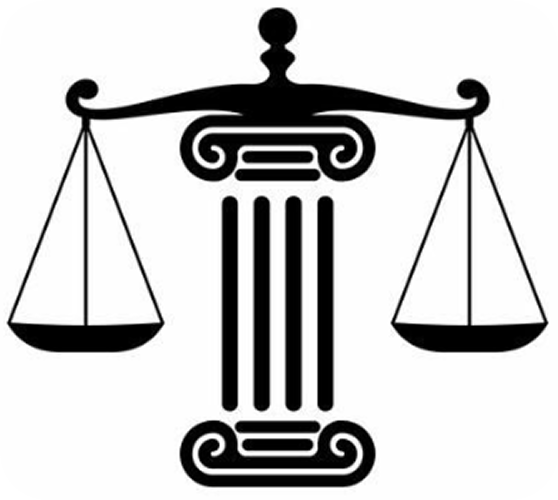
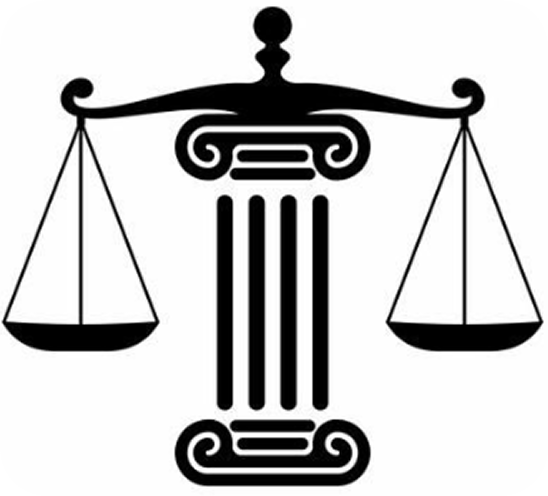
feat: sobre nosotros  + change photo header

diff --git a/src/mock/esp.tsx b/src/mock/esp.tsx
@@ -1,0 +1,48 @@
+"use client"
+import { FiFlag } from "react-icons/fi";
+import { IoBagHandleOutline } from "react-icons/io5";
+
+export const raiz = "/oroz";
+
+export const esp = {
+  logo_descripcion: "Derecho De Seguridad Social",
+  inicio_info: [
+    "Comprometidos con nuestros clientes y pasion por nuestro trabajo",
+    `Somos un Equipo de Profesionales que se ocupan de su futura
+            Jubilacion`,
+    "Consultar",
+  ],
+  inicio_sobrenosotros: {
+    titles: [
+      "Reconocimiento de Servicions / Jubilaciones / Reajustes",
+      "Somos el estudio Previsional indicado para vos.",
+    ],
+    subtitles: [
+      "Nos diferenciamos por que asesoramos en aspectos Previsionales y tanto a personas Particulares como a Grandes Empresas y Corporaciones.",
+      "Proyectamos la Jubilacion con anticipacion, con la cual no tenemos margen de error. Obramos sobre seguro por que conocemos el Sistema. No hacemos suposiciones de Hipotesis dudosas ni conjeturas.",
+    ],
+    box: [
+      {
+        id: 1,
+        icon: IoBagHandleOutline,
+        title: "Mas de 15 años de experiencia",
+        subtitle:
+          "Jubilando a Personas Particulares y Personal de Planta de Empresas PYMES, Medianas y Grandes Corporaciones.",
+      },
+      {
+        id: 2,
+        icon: FiFlag,
+        title: "Definimos y ejecutamos con rapidez su reclamo",
+        subtitle:
+          "Nuestro Exclusivo Sistema de Manejo Jubilatorio nos permite abreviar considerablemente el tiempo en cada Tramitacion.",
+      },
+    ],
+  },
+  navLinks: [
+    { id: 0, label: "Inicio", href: raiz + "/inicio" },
+    { id: 1, label: "Nosotros", href: raiz + "/nosotros" },
+    { id: 2, label: "Jubilaciones", href: raiz + "/jubilaciones" },
+    { id: 3, label: "Derecho Penal", href: raiz + "/derecho-penal" },
+    { id: 4, label: "Contacto", href: raiz + "/contacto" },
+  ],
+};

diff --git a/src/mock/eng.tsx b/src/mock/eng.tsx
@@ -1,0 +1,47 @@
+"use client"
+import { FiFlag } from "react-icons/fi";
+import { IoBagHandleOutline } from "react-icons/io5";
+
+export const raiz = "/oroz";
+export const eng = {
+  logo_descripcion: "Social Security Right",
+  inicio_info: [
+  "Committed to our clients and passionate about our work",
+  `We are a team of professionals who take care of your future
+          retirement`,
+  "Ask us",
+],
+inicio_sobrenosotros: {
+  titles: [
+    "Recognition of Service / Retirement / Benefit Adjustments",
+    "We are the right Social Security law firm for you.",
+  ],
+  subtitles: [
+    "We stand out for providing advisory services in Social Security matters to both individuals and large companies and corporations.",
+    "We plan retirement in advance, leaving no room for error. We work with certainty because we know the system. We do not rely on questionable assumptions or doubtful hypotheses.",
+  ],
+  box: [
+    {
+      id: 1,
+      icon: IoBagHandleOutline,
+      title: "More than 15 years of experience",
+      subtitle:
+        "Helping individuals and corporate staff from SMEs, medium-sized companies, and large corporations achieve retirement.",
+    },
+    {
+      id: 2,
+      icon: FiFlag,
+      title: "We define and execute your claim efficiently",
+      subtitle:
+        "Our exclusive retirement management system allows us to significantly reduce the processing time for each procedure.",
+    },
+  ],
+},
+  navLinks: [
+    { id: 0, label: "Begin", href: raiz + "/inicio" },
+    { id: 1, label: "About us", href: raiz + "/nosotros" },
+    { id: 2, label: "Pensions", href: raiz + "/jubilaciones" },
+    { id: 3, label: "Penal Rights", href: raiz + "/derecho-penal" },
+    { id: 4, label: "Contact us", href: raiz + "/contacto" },
+  ],
+};

diff --git a/src/_components/inicio/SobreNosotros.tsx b/src/_components/inicio/SobreNosotros.tsx
@@ -1,0 +1,40 @@
+"use client";
+import ImportantTitles from "../ui-reusable/ImportantTitles";
+import SubTitles from "../ui-reusable/SubTitles";
+import TitleSecion from "../ui-reusable/TitleSecion";
+import { IoBagHandleOutline } from "react-icons/io5";
+import { FiFlag } from "react-icons/fi";
+import { useContext } from "react";
+import { langCotext } from "@/_context/ContextLang";
+import BoxTitles from "../ui-reusable/BoxTitles";
+import BoxSubTitles from "../ui-reusable/BoxSubTitles";
+const SobreNosotros = () => {
+  const data = useContext(langCotext);
+  if (!data) return null;
+  const sobrenosotros = data?.data.inicio_sobrenosotros;
+  if (!sobrenosotros) return null;
+
+  return (
+    <div className="g-max-with mx-auto">
+      <TitleSecion>{sobrenosotros.titles[0]}</TitleSecion>
+      <ImportantTitles>{sobrenosotros.titles[1]}</ImportantTitles>
+
+      <SubTitles>{sobrenosotros.subtitles[0]}</SubTitles>
+      <SubTitles>{sobrenosotros.subtitles[1]}</SubTitles>
+
+      <section className="flex gap-[2rem] justify-around">
+        {sobrenosotros.box.map(({ id, icon: Icon, title, subtitle }) => (
+          <div key={id} className="w-[40%] flex flex-col">
+            <div className="flex justify-center">
+              <Icon className="text-[#B39107] h-auto w-[2.5rem]" />
+            </div>
+            <BoxTitles>{title}</BoxTitles>
+            <BoxSubTitles>{subtitle}</BoxSubTitles>
+          </div>
+        ))}
+      </section>
+    </div>
+  );
+};
+
+export default SobreNosotros;

diff --git a/src/_components/inicio/Presentacion.tsx b/src/_components/inicio/Presentacion.tsx
@@ -2,19 +2,21 @@
 import { langCotext } from "@/_context/ContextLang";
 import { useContext } from "react";
 import TitleSecion from "../ui-reusable/TitleSecion";
+import ImportantTitles from "../ui-reusable/ImportantTitles";
 
 const Presentacion = () => {
   const data = useContext(langCotext);
   if (!data) return null;
-
-  const inicioData = data?.data.inicio_info;
+  
+  const inicioData = data?.data?.inicio_info;
+  if (!inicioData) return null;
 
   return (
     <header className="header-gradient">
       <div className="flex justify-between g-max-with mx-auto g-sections-height ">
         <section className="w-[40rem] ">
           <TitleSecion>{inicioData[0]}</TitleSecion>
-          <b className="font-bold text-[3rem] my-[2rem]">{inicioData[1]}</b>
+          <ImportantTitles>{inicioData[1]}</ImportantTitles>
 
           {/* <button className="flex gap-[5px] g-yellow-button text-[1.4rem] cursor-pointer py-[1rem] px-[1.5rem] rounded-2xl my-[2rem] ">
           </button> */}
@@ -29,7 +31,8 @@ const Presentacion = () => {
         </section>
         <img
           className="img-header"
-          src="/oroz-header-img.webp"
+          // src="/oroz-header-img.webp"
+          src="/balanza.png"
           alt="imagen oroz"
         />
       </div>

diff --git a/src/app/global.css b/src/app/global.css
@@ -21,6 +21,9 @@ html{
     rgba(223, 210, 137, 0.93) 100%
   );
 }
+.styles-nav{
+  filter: drop-shadow(2px 12px 10px #000000b8);
+}
 .g-yellow-titles {
   color: #b39107;
   font-size: 1rem;
@@ -35,7 +38,7 @@ html{
   }
 }
 .g-max-with{
-  max-width: 1200px;
+  max-width: 1400px;
 }
 .g-sections-height {
   min-height: 100vh;
@@ -87,7 +90,7 @@ html{
 }
 
 .img-header {
-  filter: drop-shadow(4px 11px 23px #000000b8);
+  filter: drop-shadow(8px 41px 18px #000000b8);
   transition: 0.2s all ease-in-out;
 }
 .underline-animation {

diff --git a/src/_components/Nav.tsx b/src/_components/Nav.tsx
@@ -13,7 +13,7 @@ const Nav = () => {
 
   const path = usePathname();
   return (
-    <nav className="w-full g-max-with mx-auto my-[1rem] rounded-3xl bg-[#000000] h-[10vh] p-[.5rem] ">
+    <nav className="w-full g-max-with mx-auto my-[1rem] rounded-3xl bg-[#000000] h-full p-[.5rem] styles-nav">
       <section className=" flex justify-around  mx-auto w-full items-center">
         <div className="flex gap-1 ">
           <img

diff --git a/src/_components/ui-reusable/TitleSecion.tsx b/src/_components/ui-reusable/TitleSecion.tsx
@@ -1,7 +1,8 @@
+import { ChildrenComp } from "@/types/types";
 import React from "react";
 
-const TitleSecion = ({ children }: { children: React.ReactNode }) => {
-  return <p className="g-yellow-titles my-[2rem] ">{children}</p>;
+const TitleSecion = ({ children }: ChildrenComp) => {
+  return <p className="g-yellow-titles my-[2rem] p-[1rem]">{children}</p>;
 };
 
 export default TitleSecion;

diff --git a/src/app/oroz/inicio/page.tsx b/src/app/oroz/inicio/page.tsx
@@ -1,4 +1,5 @@
 import Presentacion from '@/_components/inicio/Presentacion'
+import SobreNosotros from '@/_components/inicio/SobreNosotros'
 import Carrusel from '@/_components/ui-reusable/Carrusel'
 import React from 'react'
 
@@ -6,6 +7,7 @@ const page = () => {
   return (
     <div>
       <Presentacion/>
+      <SobreNosotros/>
       <Carrusel/>
     </div>
   )

diff --git a/src/_components/ui-reusable/BoxSubTitles.tsx b/src/_components/ui-reusable/BoxSubTitles.tsx
@@ -1,0 +1,12 @@
+import { ChildrenComp } from '@/types/types'
+import React from 'react'
+
+const BoxSubTitles = ({children}: ChildrenComp) => {
+  return (
+    <b className='font-semibold text-[#b4b4b4] text-2xl text-center  p-[1rem]'>
+      {children}
+    </b>
+  )
+}
+
+export default BoxSubTitles

diff --git a/src/_components/ui-reusable/BoxTitles.tsx b/src/_components/ui-reusable/BoxTitles.tsx
@@ -1,0 +1,12 @@
+import { ChildrenComp } from '@/types/types'
+import React from 'react'
+
+const BoxTitles = ({children}: ChildrenComp) => {
+  return (
+    <b className='font-bold text-[#000] text-2xl text-center  p-[1rem]'>
+      {children}
+    </b>
+  )
+}
+
+export default BoxTitles

diff --git a/src/_components/ui-reusable/SubTitles.tsx b/src/_components/ui-reusable/SubTitles.tsx
@@ -1,0 +1,12 @@
+import { ChildrenComp } from '@/types/types'
+import React from 'react'
+
+const SubTitles = ({children}: ChildrenComp) => {
+  return (
+    <p className=' text-[1.7rem] text-[#898686] my-[1rem] p-[1rem]'>
+      {children}
+    </p>
+  )
+}
+
+export default SubTitles

diff --git a/src/_components/ui-reusable/ImportantTitles.tsx b/src/_components/ui-reusable/ImportantTitles.tsx
@@ -1,0 +1,8 @@
+import { ChildrenComp } from "@/types/types";
+import React from "react";
+
+const ImportantTitles = ({ children }: ChildrenComp) => {
+  return <b className="font-semibold text-[3rem] my-[2rem] p-[1rem]">{children}</b>;
+};
+
+export default ImportantTitles;
